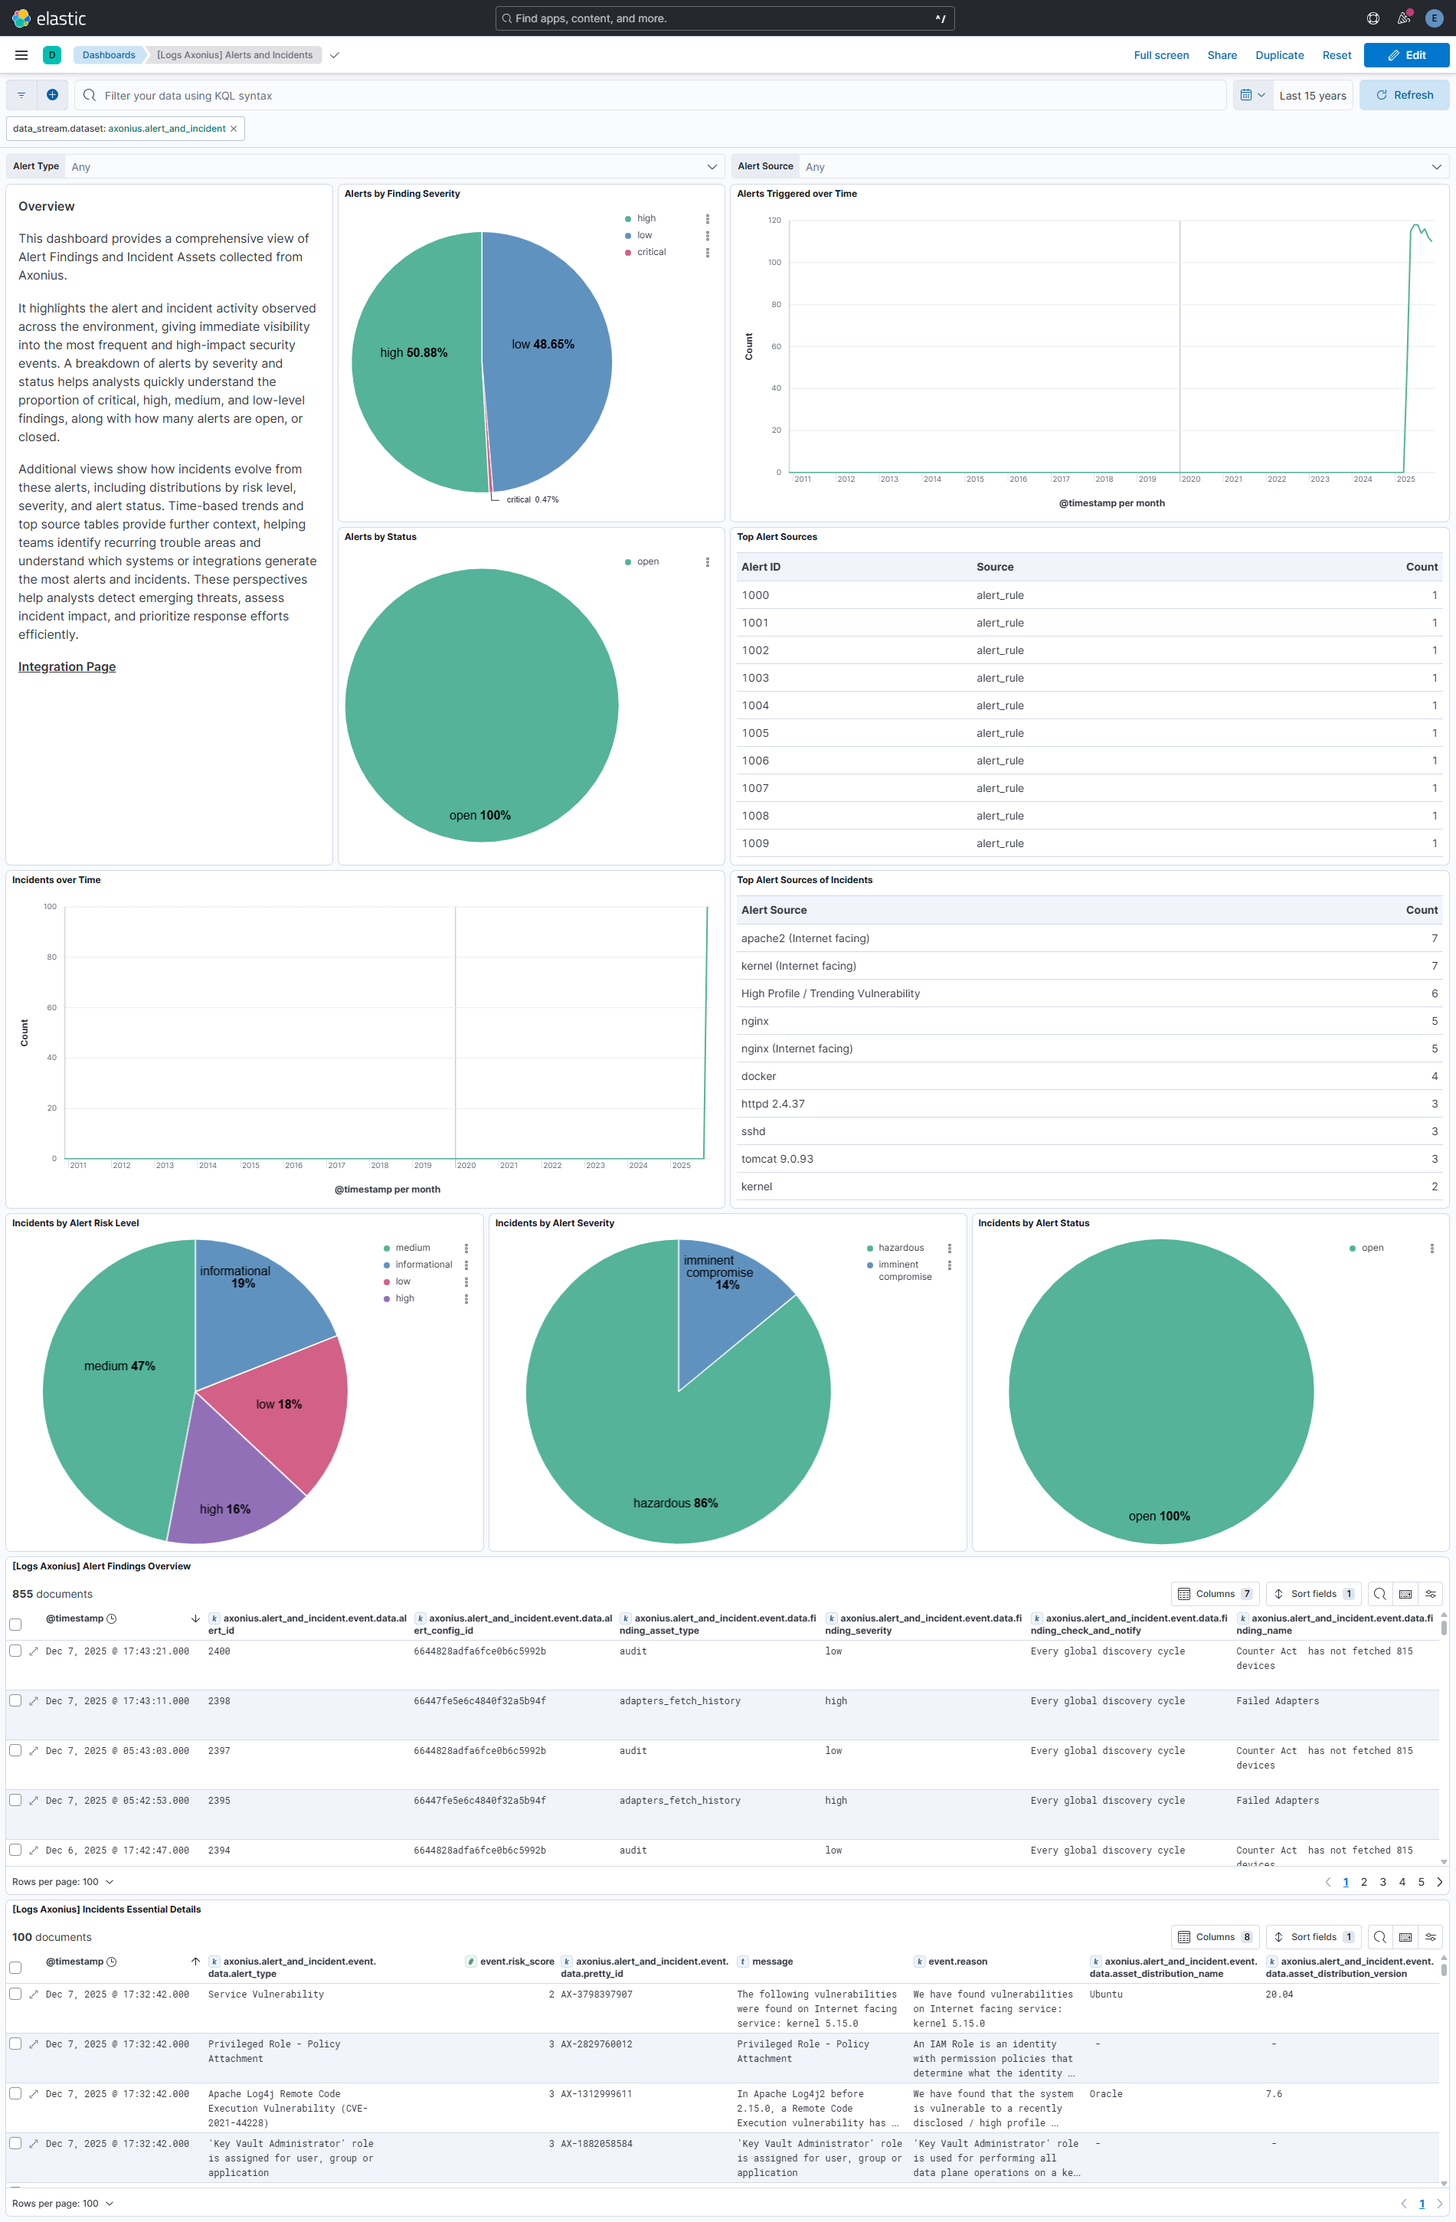
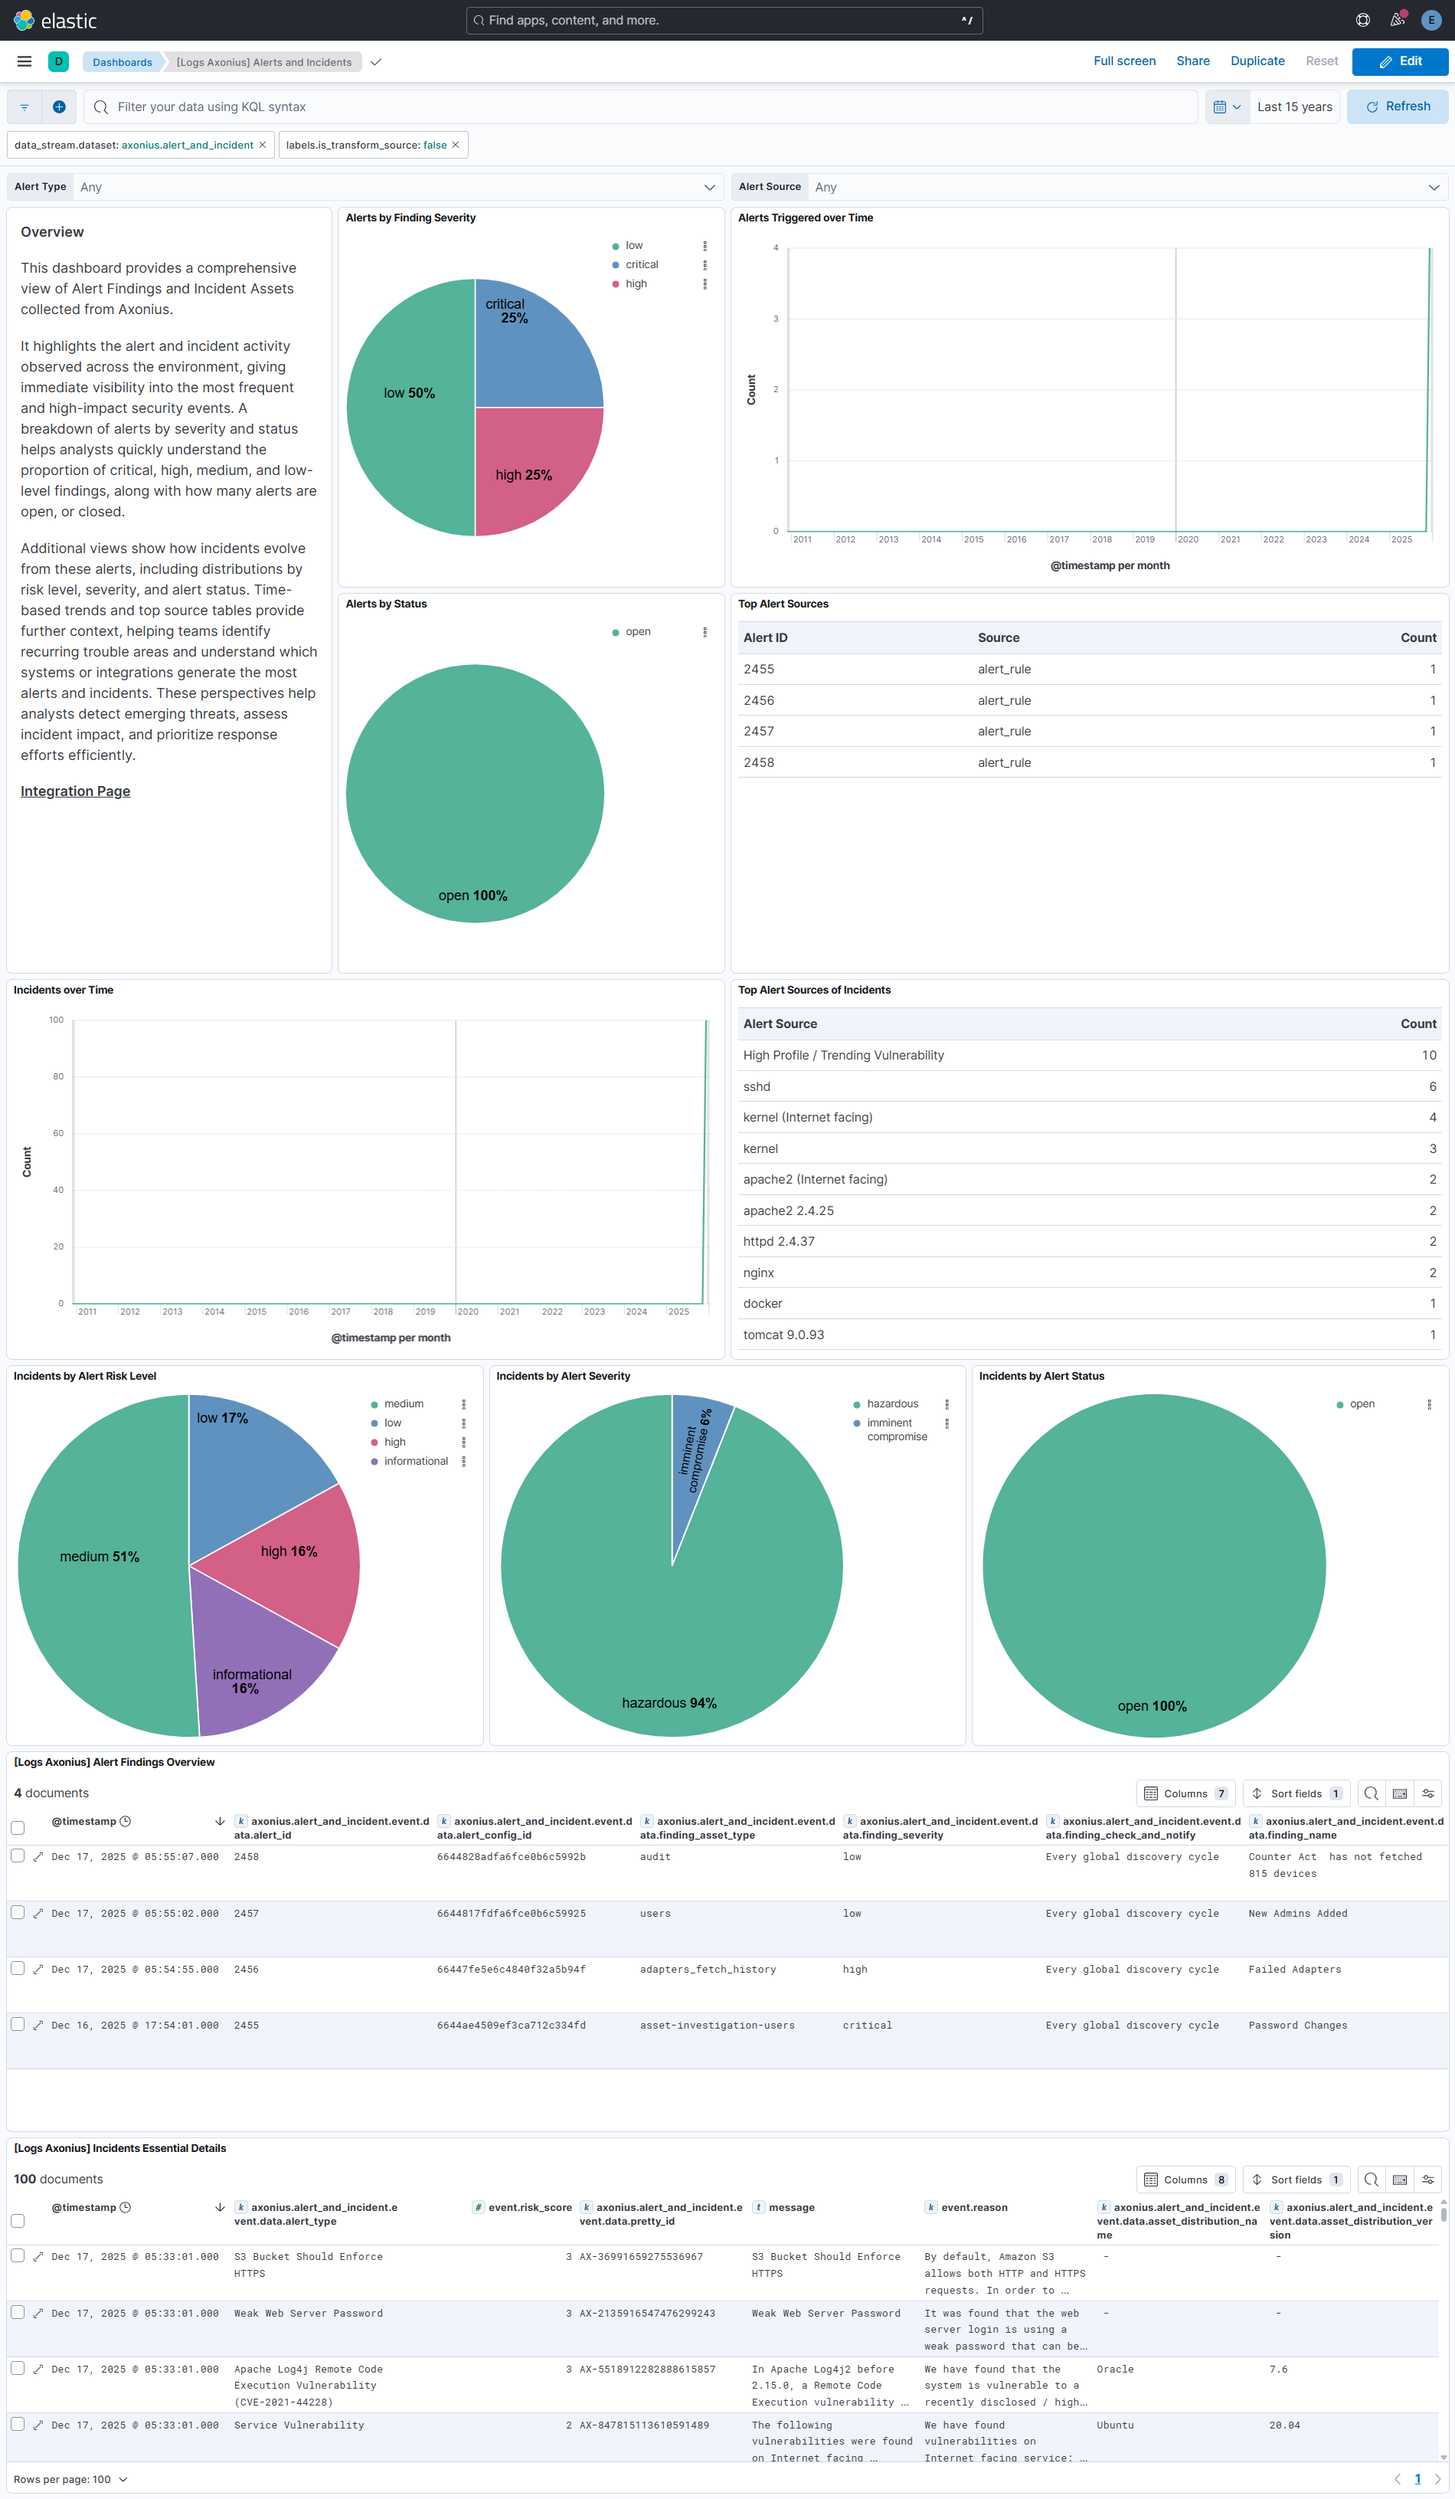
Added transform pipeline.

diff --git a/packages/axonius/docs/README.md b/packages/axonius/docs/README.md
@@ -813,12 +813,14 @@ The `alert_and_incident` data stream provides alert findings and incident asset 
 | axonius.alert_and_incident.event.quick_id |  | keyword |
 | axonius.alert_and_incident.event.type |  | keyword |
 | axonius.alert_and_incident.internal_axon_id |  | keyword |
+| axonius.alert_and_incident.transform_unique_id |  | keyword |
 | data_stream.dataset | The field can contain anything that makes sense to signify the source of the data. Examples include `nginx.access`, `prometheus`, `endpoint` etc. For data streams that otherwise fit, but that do not have dataset set we use the value "generic" for the dataset value. `event.dataset` should have the same value as `data_stream.dataset`. Beyond the Elasticsearch data stream naming criteria noted above, the `dataset` value has additional restrictions:   \* Must not contain `-`   \* No longer than 100 characters | constant_keyword |
 | data_stream.namespace | A user defined namespace. Namespaces are useful to allow grouping of data. Many users already organize their indices this way, and the data stream naming scheme now provides this best practice as a default. Many users will populate this field with `default`. If no value is used, it falls back to `default`. Beyond the Elasticsearch index naming criteria noted above, `namespace` value has the additional restrictions:   \* Must not contain `-`   \* No longer than 100 characters | constant_keyword |
 | data_stream.type | An overarching type for the data stream. Currently allowed values are "logs" and "metrics". We expect to also add "traces" and "synthetics" in the near future. | constant_keyword |
 | event.dataset | Name of the dataset. If an event source publishes more than one type of log or events (e.g. access log, error log), the dataset is used to specify which one the event comes from. It's recommended but not required to start the dataset name with the module name, followed by a dot, then the dataset name. | constant_keyword |
 | event.module | Name of the module this data is coming from. If your monitoring agent supports the concept of modules or plugins to process events of a given source (e.g. Apache logs), `event.module` should contain the name of this module. | constant_keyword |
 | input.type | Type of filebeat input. | keyword |
+| labels.is_transform_source | Indicates whether an alert and incident are in the raw source data stream, or in the latest destination index. | constant_keyword |
 | log.offset | Log offset. | long |
 | observer.vendor | Vendor name of the observer. | constant_keyword |
 
@@ -829,9 +831,9 @@ An example event for `alert_and_incident` looks as following:
 {
     "@timestamp": "2025-04-14T13:38:49.000Z",
     "agent": {
-        "ephemeral_id": "547b93f3-e3de-4a33-9857-969a5229a943",
-        "id": "0572ed83-3264-4082-9096-37eaf63541a2",
-        "name": "elastic-agent-77501",
+        "ephemeral_id": "75b1cfdf-ae0c-40a8-9d99-62cefac0f26c",
+        "id": "df2f55f5-9ed0-46f7-81aa-76e2347d5e98",
+        "name": "elastic-agent-29558",
         "type": "filebeat",
         "version": "8.18.0"
     },
@@ -861,19 +863,20 @@ An example event for `alert_and_incident` looks as following:
                 "plugin_unique_name": "axonius_findings_adapter",
                 "quick_id": "axonius_findings_adapter!d919d74b380c16c8ea9d"
             },
-            "internal_axon_id": "f8b16b93ecf0c0c4d7d10b797b9f839a"
+            "internal_axon_id": "f8b16b93ecf0c0c4d7d10b797b9f839a",
+            "transform_unique_id": "WVspmVr9FseKluRKa6N3CIRZsb0="
         }
     },
     "data_stream": {
         "dataset": "axonius.alert_and_incident",
-        "namespace": "90668",
+        "namespace": "47334",
         "type": "logs"
     },
     "ecs": {
         "version": "9.2.0"
     },
     "elastic_agent": {
-        "id": "0572ed83-3264-4082-9096-37eaf63541a2",
+        "id": "df2f55f5-9ed0-46f7-81aa-76e2347d5e98",
         "snapshot": false,
         "version": "8.18.0"
     },
@@ -881,15 +884,13 @@ An example event for `alert_and_incident` looks as following:
         "agent_id_status": "verified",
         "dataset": "axonius.alert_and_incident",
         "id": "66447fe5e6c4840f32a5b94f",
-        "ingested": "2025-12-17T12:41:18Z",
-        "kind": "alert",
-        "original": "{\"adapter_list_length\":1,\"adapters\":[\"axonius_findings_adapter\"],\"asset_type\":\"alert_findings\",\"event\":{\"adapters.$.data.id_raw\":\"67fd0fe9c0cc9f012ad936ad\",\"adapters.$.quick_id\":\"axonius_findings_adapter!d919d74b380c16c8ea9d\",\"data\":{\"alert_config_id\":\"66447fe5e6c4840f32a5b94f\",\"alert_id\":\"984\",\"finding_asset_type\":\"adapters_fetch_history\",\"finding_check_and_notify\":\"Every global discovery cycle\",\"finding_message\":\"\",\"finding_name\":\"Failed Adapters\",\"finding_severity\":\"high\",\"id\":\"d919d74b380c16c8ea9d\",\"id_raw\":\"67fd0fe9c0cc9f012ad936ad\",\"plugin_unique_name\":\"axonius_findings_adapter\",\"source\":\"alert_rule\",\"status\":\"open\",\"trigger_date\":\"Mon, 14 Apr 2025 13:38:49 GMT\"},\"plugin_name\":\"axonius_findings_adapter\",\"plugin_unique_name\":\"axonius_findings_adapter\",\"quick_id\":\"axonius_findings_adapter!d919d74b380c16c8ea9d\"},\"internal_axon_id\":\"f8b16b93ecf0c0c4d7d10b797b9f839a\"}"
+        "ingested": "2025-12-29T06:05:21Z",
+        "kind": "alert"
     },
     "input": {
         "type": "cel"
     },
     "tags": [
-        "preserve_original_event",
         "preserve_duplicate_custom_fields",
         "forwarded",
         "axonius-alert_and_incident"
